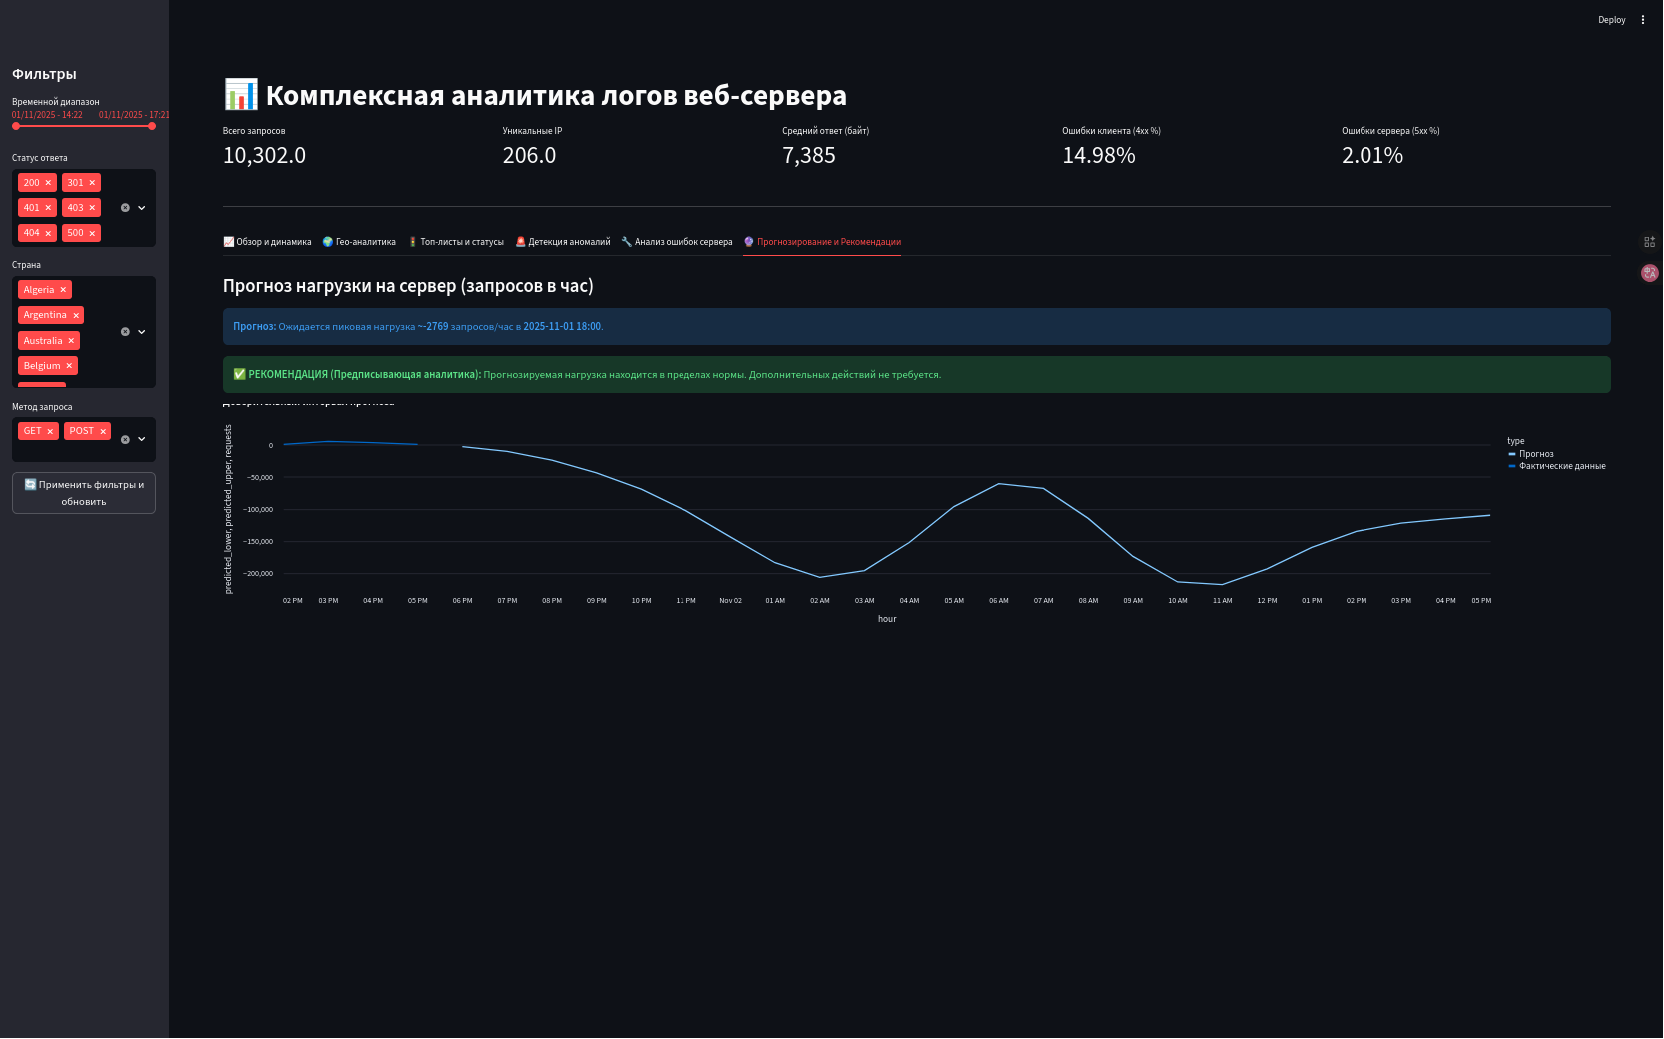
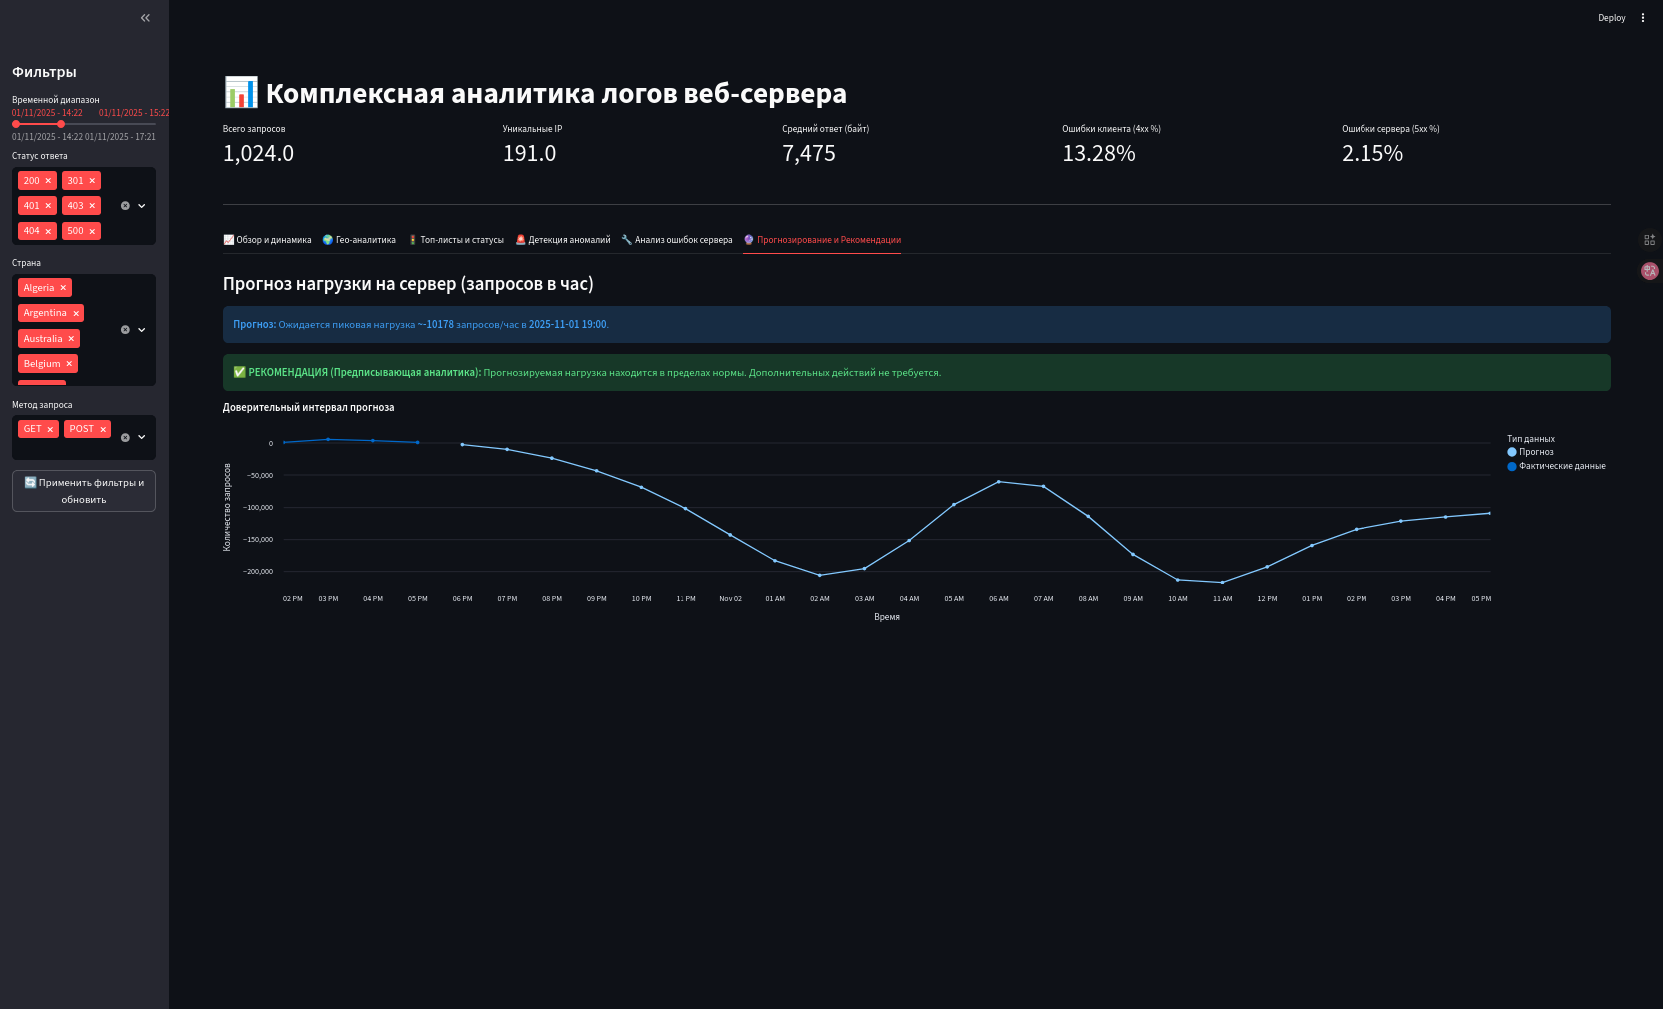
docs(readme): replace image-5.png

diff --git a/streamlit/dashboard.py b/streamlit/dashboard.py
@@ -359,19 +359,29 @@ with tab6:
         source = pd.concat([df_actuals[['hour', 'requests', 'type']], df_pred_main])
 
         # Основной график
-        line = alt.Chart(source).mark_line().encode(
-            x='hour:T',
-            y='requests:Q',
-            color='type:N'
+        line = alt.Chart(source).mark_line(point=True).encode(
+            x=alt.X('hour:T', title='Время'),
+            y=alt.Y('requests:Q', title='Количество запросов'),
+            color=alt.Color('type:N', title='Тип данных'),
+            tooltip=[
+                alt.Tooltip('hour:T', title='Время'),
+                alt.Tooltip('requests:Q', title='Запросов', format=',.0f'),
+                alt.Tooltip('type:N', title='Тип')
+            ]
         ).properties(
              title='Сравнение фактической нагрузки и прогноза'
         )
 
         # Область неопределенности для прогноза
         band = alt.Chart(df_predictions).mark_area(opacity=0.3).encode(
-            x='hour:T',
-            y='predicted_lower:Q',
-            y2='predicted_upper:Q'
+            x=alt.X('hour:T'),
+            y=alt.Y('predicted_lower:Q'),
+            y2='predicted_upper:Q',
+            tooltip=[
+                alt.Tooltip('hour:T', title='Время'),
+                alt.Tooltip('predicted_lower:Q', title='Мин. прогноз', format=',.0f'),
+                alt.Tooltip('predicted_upper:Q', title='Макс. прогноз', format=',.0f')
+            ]
         ).properties(
             title='Доверительный интервал прогноза'
         )

diff --git a/README.md b/README.md
@@ -12,7 +12,6 @@
   <img src="./images/image-3.png" width="32%" />
   <img src="./images/image-4.png" width="32%" />
   <img src="./images/image-5.png" width="32%" />
-
 </div>
 
 
